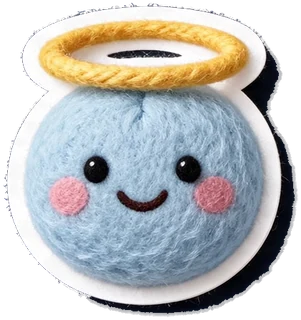
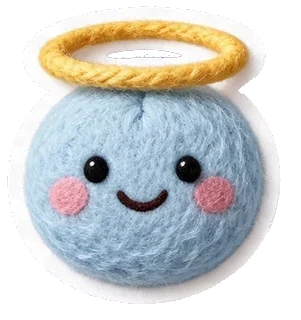
Fil : les 18 émojis en feutrine pastel en premier dans les stickers
- Ombre foncée de la planche retirée autour de chaque sticker (scripts/stickers_ombre.py)
- Catégorie « Panda » pour les têtes du panda roux
- En démo, les proches répondent avec les nouveaux émojis

Claude-Session: https://claude.ai/code/session_0124BHnt6GoRDtWSNdmub5vP

diff --git a/src/lib/stickers.ts b/src/lib/stickers.ts
@@ -30,11 +30,14 @@ const MOTS: Record<string, { t: string; c: string; d: string }> = {
   fetes: { t: 'Bonnes\nfêtes', c: '#7BD389', d: '#2F8F46' },
 }
 
-/** Les émojis en feutrine (le panda roux de la maison), pour le fil familial et les dessins. */
-export const EMOJIS = ['panda-rire', 'panda-amour', 'panda-heureux', 'panda-bravo', 'panda-fete', 'panda-serein', 'panda-motive', 'panda-nostalgique', 'panda-fatigue', 'panda-triste', 'panda-stresse']
+/** Les émojis en feutrine pastel (générés avec ElevenLabs), pour le fil familial, les photos et les dessins. */
+export const EMOJIS = ['emo-mdr', 'emo-amoureux', 'emo-bisou', 'emo-calin', 'emo-coucou', 'emo-merci', 'emo-bravo', 'emo-fete', 'emo-coquin', 'emo-timide', 'emo-supplie', 'emo-pleure', 'emo-surpris', 'emo-reflechit', 'emo-dodo', 'emo-cool', 'emo-ange', 'emo-costaud']
+/** Les têtes du panda roux de la maison. */
+export const PANDAS = ['panda-rire', 'panda-amour', 'panda-heureux', 'panda-bravo', 'panda-fete', 'panda-serein', 'panda-motive', 'panda-nostalgique', 'panda-fatigue', 'panda-triste', 'panda-stresse']
 
 export const CATS: Cat[] = [
   { key: 'emojis', label: 'Émojis', items: EMOJIS },
+  { key: 'panda', label: 'Panda', items: PANDAS },
   { key: 'amour', label: 'Amour', items: ['coeur', 'coeurs', 'bisou', 'lettre', 'maison', 'pouce'] },
   { key: 'mots', label: 'Petits mots', items: Object.keys(MOTS).map((k) => `mot:${k}`) },
   { key: 'noel', label: 'Noël', items: ['sapin', 'boule', 'etoile-noel', 'cadeau-noel', 'chaussette', 'sucre-orge', 'pain-epice', 'bonhomme-neige', 'pomme-pin', 'mot:noel', 'mot:fetes'] },
@@ -46,8 +49,11 @@ export const CATS: Cat[] = [
 ]
 
 export const NOMS: Record<string, string> = {
-  'panda-rire': 'Mort de rire', 'panda-amour': 'Amoureux', 'panda-heureux': 'Heureux', 'panda-bravo': 'Bravo', 'panda-fete': 'Fête', 'panda-serein': 'Zen',
-  'panda-motive': 'Motivé', 'panda-nostalgique': 'Nostalgique', 'panda-fatigue': 'Fatigué', 'panda-triste': 'Triste', 'panda-stresse': 'Stressé',
+  'emo-mdr': 'Mort de rire', 'emo-amoureux': 'Amoureux', 'emo-bisou': 'Bisou', 'emo-calin': 'Câlin', 'emo-coucou': 'Coucou', 'emo-merci': 'Merci', 'emo-bravo': 'Bravo',
+  'emo-fete': 'Fête', 'emo-coquin': 'Clin d’œil', 'emo-timide': 'Timide', 'emo-supplie': 'S’il te plaît', 'emo-pleure': 'Triste', 'emo-surpris': 'Surpris', 'emo-reflechit': 'Je réfléchis',
+  'emo-dodo': 'Dodo', 'emo-cool': 'Trop cool', 'emo-ange': 'Petit ange', 'emo-costaud': 'Courage',
+  'panda-rire': 'Panda mort de rire', 'panda-amour': 'Panda amoureux', 'panda-heureux': 'Panda heureux', 'panda-bravo': 'Panda bravo', 'panda-fete': 'Panda fête', 'panda-serein': 'Panda zen',
+  'panda-motive': 'Panda motivé', 'panda-nostalgique': 'Panda nostalgique', 'panda-fatigue': 'Panda fatigué', 'panda-triste': 'Panda triste', 'panda-stresse': 'Panda stressé',
   coeur: 'Cœur', coeurs: 'Deux cœurs', bisou: 'Bisou', lettre: 'Lettre d’amour', maison: 'Maison', pouce: 'Pouce levé',
   ballons: 'Ballons', gateau: 'Gâteau', cadeau: 'Cadeau', chapeau: 'Chapeau de fête', couronne: 'Couronne', notes: 'Notes de musique', cupcake: 'Cupcake',
   lunettes: 'Lunettes cœur', moustache: 'Moustache', oreilles: 'Oreilles de chat', noeud: 'Nœud', fleurs: 'Couronne de fleurs',

diff --git a/src/lib/localBackend.ts b/src/lib/localBackend.ts
@@ -216,7 +216,7 @@ export function createLocalBackend(): Backend {
   const ecrivains = new Set<(e: { m: string; quoi: Ecrit | null }) => void>()
   const signale = (m: string, quoi: Ecrit | null) => ecrivains.forEach((f) => f({ m, quoi }))
   const REPONSES: Record<'texte' | 'photo' | 'vocal' | 'sticker', string[]> = {
-    sticker: ['panda-amour', 'panda-rire', 'panda-heureux', 'panda-bravo', 'coeurs', 'bisou'],
+    sticker: ['emo-amoureux', 'emo-mdr', 'emo-calin', 'emo-bisou', 'emo-coucou', 'emo-fete', 'panda-amour'],
     texte: ['Oh trop bien ! On en parle dimanche ?', 'Hâte de te voir 🥰', 'Haha, je savais que tu dirais ça !', 'Bisous à toute la maison', 'Tu me manques déjà…', 'Bonne idée, je m’en occupe 😉'],
     photo: ['Trop belle cette photo ! 😍', 'Oh, j’adore. Tu me l’envoies en grand ?', 'C’est où ? On dirait des vacances !'],
     vocal: ['Ça fait du bien d’entendre ta voix 🥰', 'Haha, j’ai écouté deux fois !', 'Je te rappelle ce soir, promis.'],

diff --git a/scripts/stickers_ombre.py b/scripts/stickers_ombre.py
@@ -1,0 +1,27 @@
+"""Enlève l'ombre portée foncée cuite autour des stickers émojis (elle venait de la photo de la planche).
+Seul le presque-noir relié au vide autour du sticker part ; les yeux et les lunettes, à l'abri derrière le bord blanc, restent.
+(Le trou de l'auréole de emo-ange a ensuite été vidé à la main de la même façon.)
+usage: stickers_ombre.py dossier_de_sortie   (depuis la racine du projet)"""
+import sys, glob, os
+import numpy as np
+from PIL import Image
+from scipy import ndimage
+out = sys.argv[1]
+for f in sorted(glob.glob('public/art/stickers/emo-*.webp')):
+    im = np.asarray(Image.open(f).convert('RGBA')).astype(np.float32)
+    rgb, a = im[..., :3], im[..., 3]
+    lum = rgb @ np.array([0.299, 0.587, 0.114])
+    # l'ombre : du presque noir relié au vide autour du sticker (les yeux, eux, sont à l'abri derrière le bord blanc)
+    sombre = (lum < 90) | (a < 128)
+    lbl, n = ndimage.label(sombre)
+    bord = set(np.unique(np.concatenate([lbl[0], lbl[-1], lbl[:, 0], lbl[:, -1]]))) - {0}
+    ombre = np.isin(lbl, list(bord))
+    fuite = ombre & (a > 128) & (lum > 60)
+    # la lisière entre le bord blanc et l'ombre : on la fond (plus elle est sombre, plus elle est transparente)
+    lisiere = ndimage.binary_dilation(ombre, iterations=3) & ~ombre & (lum < 215)
+    k = np.clip((lum - 90) / (215 - 90), 0, 1)
+    a2 = np.where(ombre, 0, np.where(lisiere, a * k, a))
+    rgb2 = np.where((ombre | lisiere)[..., None], 255, rgb)
+    res = np.dstack([rgb2, a2]).clip(0, 255).astype(np.uint8)
+    Image.fromarray(res, 'RGBA').save(os.path.join(out, os.path.basename(f)), 'WEBP', quality=88, method=6)
+    print(os.path.basename(f), 'fuite', int(fuite.sum()), 'enlevé', int((ombre & (a > 128)).sum()))

diff --git a/README.md b/README.md
@@ -15,7 +15,7 @@ Au premier lancement, un guide en 3 écrans présente l'essentiel (rejouable dep
 - **Les humeurs en smileys** : chaque humeur a son smiley en feutrine, une petite boule de laine générée avec ElevenLabs dans le style des figurines (chapeau de fête, « z », larme, cœur… autour), dans `public/art/humeurs/` et découpé par `scripts/feutre_decoupe.py`. On le voit dans la bulle au-dessus de chacun, sur les pastilles et en grand pour choisir son humeur.
 - **Petits et grands** : chacun choisit sa taille (adulte, ado, enfant, bébé) et le jardin montre bien qui est petit. Les bébés et les enfants sans téléphone sont ajoutés par un proche (Famille > Ajouter un enfant ou un bébé) : ils ont leur personnage (tétine possible), vivent dans le jardin, reçoivent des câlins, et la famille donne leur humeur. Ils ne comptent pas dans la limite de membres. Pour que le jardin ne soit pas encombré, à partir de quatre personnes une partie de la famille s'installe aux fenêtres du bas (le buste dans la lumière de la maison, son smiley au-dessus) et une personne sur le pas de la porte d'entrée (pas dans l'immeuble, dont la porte est trop près des fenêtres) ; on reste soi-même au jardin, avec les petits. Un câlin ou un bisou à quelqu'un qui est à sa fenêtre : on va sous la fenêtre et on lui envoie le geste vers le haut ; depuis la fenêtre, le geste descend jusqu'à l'autre. La maison accueille sept personnes (six au chalet, qui n'a qu'une fenêtre en bas), au-delà un « +N ».
 - **Personnages** : à l'inscription, chacun choisit la figurine en feutrine qui lui ressemble le plus, parmi 78 personnages générés avec ElevenLabs dans le style de la maison : femmes, hommes, mamies, papis, filles et garçons (enfants et ados), bébés, avec tous les teints, de nombreuses coiffures (afro, tresses, vanilles, chignon, voile, crâne rasé…), lunettes et barbes. On les trie par Femme, Homme, Fille, Garçon, Bébé et par teint. Les enfants choisissent leur taille dans la maison (ado ou enfant). Les accessoires de la boutique (bonnet, casquette, chapeau de paille, couronnes, lunettes de star, écharpe, barrette) se posent sur la figurine, au jardin comme dans les pastilles. L'humeur du jour s'affiche en petit smiley sur la pastille, et dans la maison les bulles, larme, goutte et « z » la montrent. Les personnages créés avec l'ancien éditeur reçoivent automatiquement la figurine la plus proche. Chacun peut ensuite personnaliser sa figurine : la couleur de peau, la couleur des cheveux ou du voile, la couleur des yeux, le nez, la bouche et des fossettes (un petit creux tout doux de chaque côté du sourire, sauf sous une barbe), des lunettes (rondes, carrées, papillon, 6 montures : de vraies paires générées avec ElevenLabs, verres transparents et petite ombre, posées verres sur les yeux, `public/art/persos/lun-*.webp`, découpées par `scripts/lunettes_personnages.py`), des taches de rousseur et du blush. Les couleurs de peau sont de vraies images : chaque planche de figurines a été refaite par ElevenLabs (Seedream 5.5) dans six peaux, de la plus claire à la plus foncée, puis chaque figurine a été recalée sur l'originale, vérifiée (barbe, lunettes, cheveux et mains doivent être restés les mêmes) et dédoublonnée : 247 peaux en tout, de 0 à 5 par figurine (`public/art/persos/<id>-t<k>.webp`, liste dans `src/lib/peaux.ts`). Rien n'est recoloré pixel par pixel pour la peau, donc pas de taches autour des lunettes ou des joues. Le filtre par teint de la galerie montre aussi les figurines qui existent dans ce teint avec une autre peau, et en changeant de figurine on garde la peau choisie quand elle existe. Les cheveux et les yeux sont recolorés dans le téléphone à partir de masques calculés pour chaque figurine (`public/art/persos/<id>-m.webp`), en gardant le relief de la feutrine ; le reste se dessine par-dessus. Modifiable dans Famille > Mon personnage. Les figurines sont dans `public/art/persos/`, découpées par `scripts/decoupe_personnages.py`, leurs repères (tête, buste, accessoires) calculés par `scripts/reperes_personnages.py`, leur visage (yeux, bouche, nez, masques) par `scripts/visages_personnages.py`, leurs autres peaux recalées et mesurées par `scripts/peaux_recalage.py` puis retenues par `scripts/peaux_personnages.py`. Les baskets blanches, en partie effacées par le détourage sur fond blanc, ont été complétées en recopiant en miroir l'autre chaussure (`scripts/chaussures_personnages.py`).
-- **Souvenirs** : des dossiers créés avec les proches de son choix. Chacun a une couverture, des membres, des sous-dossiers, des photos, des notes modifiables par tous ses membres et une discussion. On ne voit que les dossiers dont on fait partie ; le créateur gère les membres, les autres peuvent quitter. Le fil familial est dans le même onglet : une discussion de toute la famille, en bulles. On y envoie du texte (les liens deviennent cliquables, avec un aperçu du site ou la miniature d'une vidéo YouTube), des photos sur lesquelles on dessine et on pose des mots qu'on déplace du doigt, avec une légende, des vocaux (2 minutes au plus, avec leur onde) et des stickers en feutrine, envoyés seuls en grand (émojis du panda roux, cœurs, petits mots…), qu'on peut aussi coller sur les photos, les agrandir et les tourner. On voit en direct qui écrit, qui enregistre un vocal ou qui choisit une photo : sa tête apparaît en bas avec des petits points qui bougent (diffusion « ecrit » sur le canal Realtime privé de la famille). Un appui sur une bulle ouvre les réactions, et la suppression pour ses propres messages. Les vocaux vont dans le bucket privé `moments` (`0020_fil.sql`) ; un sticker envoyé garde seulement sa clé (`0021_lieu_stickers.sql`). Sur iPhone, le micro demande l'autorisation `NSMicrophoneUsageDescription`.
+- **Souvenirs** : des dossiers créés avec les proches de son choix. Chacun a une couverture, des membres, des sous-dossiers, des photos, des notes modifiables par tous ses membres et une discussion. On ne voit que les dossiers dont on fait partie ; le créateur gère les membres, les autres peuvent quitter. Le fil familial est dans le même onglet : une discussion de toute la famille, en bulles. On y envoie du texte (les liens deviennent cliquables, avec un aperçu du site ou la miniature d'une vidéo YouTube), des photos sur lesquelles on dessine et on pose des mots qu'on déplace du doigt, avec une légende, des vocaux (2 minutes au plus, avec leur onde) et des stickers en feutrine, envoyés seuls en grand (18 émojis en feutrine pastel générés avec ElevenLabs, les têtes du panda roux, cœurs, petits mots…), qu'on peut aussi coller sur les photos, les agrandir et les tourner. On voit en direct qui écrit, qui enregistre un vocal ou qui choisit une photo : sa tête apparaît en bas avec des petits points qui bougent (diffusion « ecrit » sur le canal Realtime privé de la famille). Un appui sur une bulle ouvre les réactions, et la suppression pour ses propres messages. Les vocaux vont dans le bucket privé `moments` (`0020_fil.sql`) ; un sticker envoyé garde seulement sa clé (`0021_lieu_stickers.sql`). Sur iPhone, le micro demande l'autorisation `NSMicrophoneUsageDescription`.
 - **On pense à toi** : un cœur, un câlin, du courage, un petit mot, reçu en animation sans ouvrir de conversation.
 - **Humeur du jour** : son humeur et un mot, visibles par la famille.
 - **Moments** : question du jour (on répond par un mot, une photo, ou les deux), défi photo, défi de la semaine, étoiles (expliquées dans une fiche dédiée) et la maison. « Décorer la maison » ouvre une page à part, qui glisse par-dessus l'écran : la maison en grand, le compagnon, puis les décorations rangées en Animaux et plantes, Le jardin, La maison et le ciel ; on y trouve aussi l’entrée du centre commercial.
